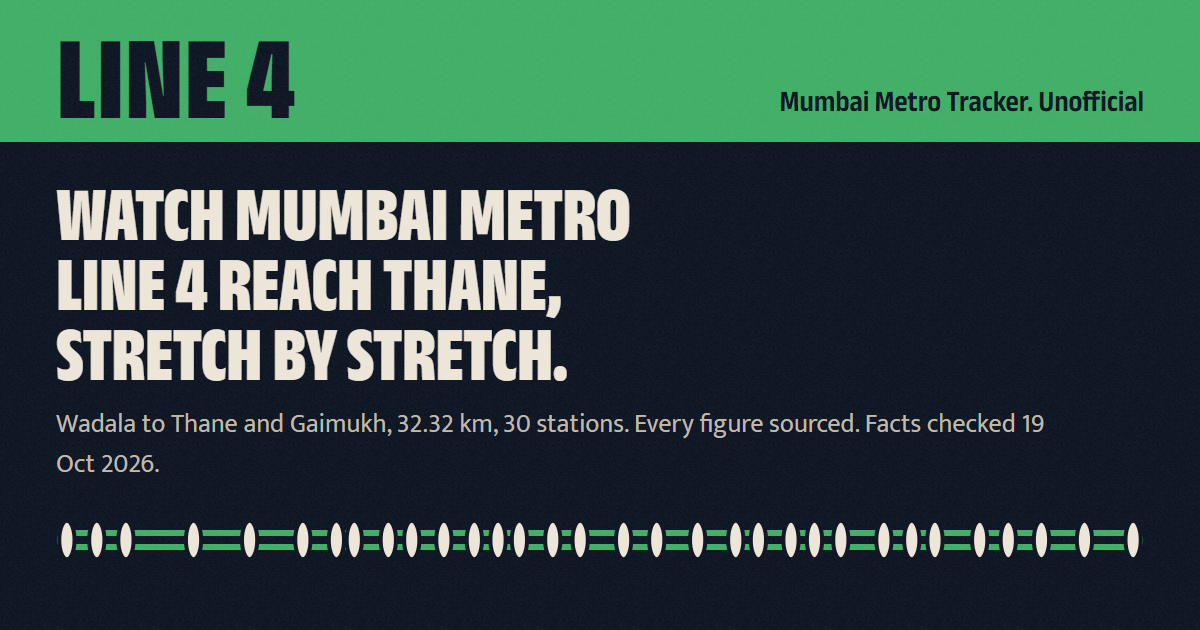
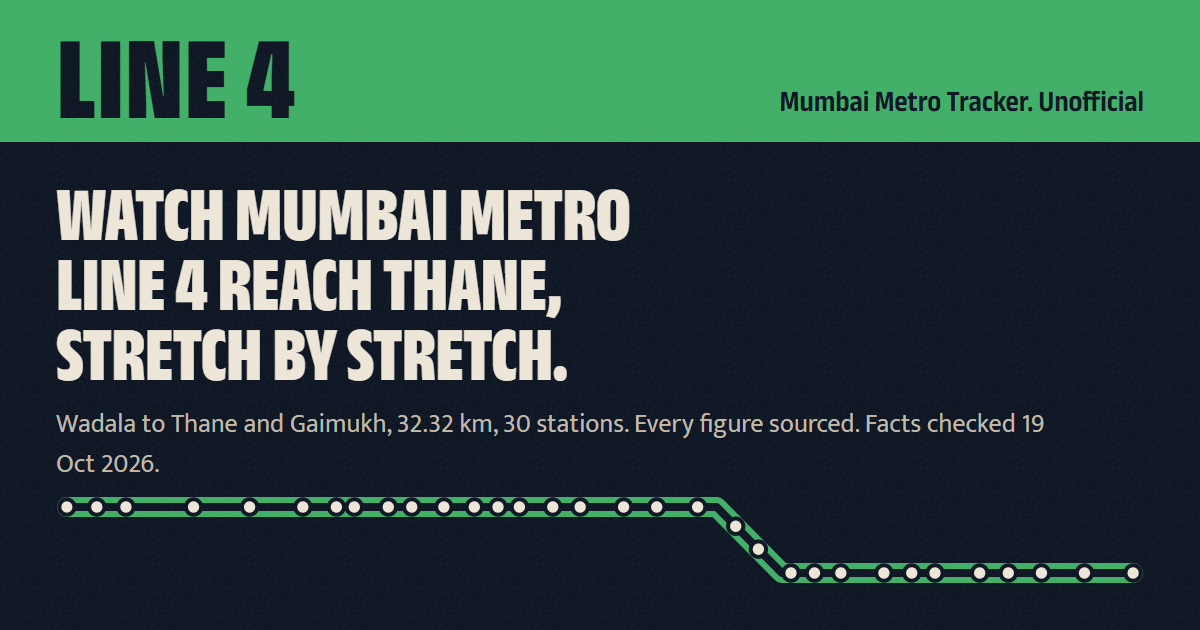
Line 4 route: a Teen Haath Naka bend and 45-degree station names
The ride strip printed 32 station names flat, and they ran into each
other. Two changes, after Line 12's strip:
- One 45-degree bend at Teen Haath Naka, where the line leaves LBS Marg
  for the Eastern Expressway into Thane (project report, May 2016,
  3.0.1): alignment bend_along_m, so the front strip, hub card and share
  card bend too.
- A dense line (more than 24 stations) sets its names at 45 degrees,
  above and below in turn, in a taller track; names on the bend rise
  away from the line. Lines 12 and 5 are unchanged.

Also corrects Line 4's route note: it runs beside the Eastern Expressway
only to Amar Mahal Junction, then on LBS Marg to Teen Haath Naka.

Changed region(s): [[0.0308, 0.7841, 0.9558, 0.9349]]

diff --git a/scripts/build-alignment-line4.py b/scripts/build-alignment-line4.py
@@ -30,6 +30,9 @@ K = '{http://www.opengis.net/kml/2.2}'
 STATIONS = 'src/data/lines/line-4/stations.json'
 OUT = 'src/data/lines/line-4/alignment-mmrda-2025.geojson'
 END_OF_LINE_4_M = 450  # Line 4A starts 450 m past Kasarvadavali station (project reports, 2016 and 2017)
+# The schematic's one 45-degree bend (src/lib/route.ts): at Teen Haath Naka, where the line leaves Lal Bahadur
+# Shastri Marg for the Eastern Expressway into Thane (project report, May 2016, 3.0.1). It starts midway between
+# Mulund Naka and Teen Haath Naka, as Line 12's bend starts where that line leaves its road.
 
 # A flat projection, good to well under a metre across this 35 km line.
 LAT0 = 19.15
@@ -192,13 +195,14 @@ feature = lambda props, coords: {'type': 'Feature', 'properties': props, 'geomet
 geo = {
     'type': 'FeatureCollection',
     'properties': {
-        'note': f'Derived from MMRDA\'s alignment file for Line 4 ({KML_URL}), which gives the corridor from Bhakti Park to Gaimukh as one polygon; the centre line runs midway between its two sides from Bhakti Park station, along the Eastern Express Highway, LBS Marg and Ghodbunder Road (verified). Line 4 ends {END_OF_LINE_4_M} m past Kasarvadavali, where Line 4A starts (project reports, 2016 and 2017). Simplified to about 1 m by scripts/build-alignment-line4.py.',
+        'note': f'Derived from MMRDA\'s alignment file for Line 4 ({KML_URL}), which gives the corridor from Bhakti Park to Gaimukh as one polygon; the centre line runs midway between its two sides from Bhakti Park station: beside the Eastern Expressway to Amar Mahal Junction, along Lal Bahadur Shastri Marg to Teen Haath Naka in Thane, then on the Eastern Expressway and Ghodbunder Road (verified). Line 4 ends {END_OF_LINE_4_M} m past Kasarvadavali, where Line 4A starts (project reports, 2016 and 2017). Simplified to about 1 m by scripts/build-alignment-line4.py.',
         'source_url': PAGE_URL,
         'status': 'verified',
         'last_verified': CHECKED,
         'length_m': round(length),
         'line_4_m': round(split),
         'line_4a_m': round(length - split),
+        'bend_along_m': round((along_of['mulund-naka'] + along_of['teen-haath-naka']) / 2),
     },
     'features': [
         feature({'name': 'Line 4 centre line', 'part': 'current', 'note': 'Bhakti Park (Wadala) to the end of line past Kasarvadavali, from MMRDA\'s 2025 file (verified).'}, cut(0, split)),

diff --git a/DESIGN.md b/DESIGN.md
@@ -325,7 +325,7 @@ The system has no cards. Two container types exist.
 Every figure carries one. A 0.95em drawn mark, then an uppercase label word, then a hairline divider and the source outlet as a link. Verified and reported marks are ink; unverified and conflicting marks turn Orange Ink. The word is always present (visibly or for screen readers), so the grade never relies on colour.
 
 ### Route Line (signature)
-The schematic Line 12, shared by the front-page strip and the route ride. An orange casing (14px on the strip, 22px in the ride) with a paper core (5px and 9px), round joins, one 45-degree bend where the alignment leaves Kalyan-Shilphata Road. Station dots are ink with a paper ring on the strip. In the ride, dots are paper with a 3px ink ring; passed stations fill ink; the current station fills orange and scales to 1.5. On phones the line runs down the left of a vertical station list as a hollow capsule, with an ink dot per station.
+The schematic Line 12, shared by the front-page strip and the route ride. An orange casing (14px on the strip, 22px in the ride) with a paper core (5px and 9px), round joins, one 45-degree bend where the alignment leaves Kalyan-Shilphata Road. Station dots are ink with a paper ring on the strip. In the ride, dots are paper with a 3px ink ring; passed stations fill ink; the current station fills orange and scales to 1.5. On phones the line runs down the left of a vertical station list as a hollow capsule, with an ink dot per station. Each line takes one 45-degree bend at a real turn: Line 12 where it leaves Kalyan-Shilphata Road, Line 4 at Teen Haath Naka, where it leaves LBS Marg for the Eastern Expressway into Thane. A dense line (more than 24 stations, Line 4) sets its station names in the ride at 45 degrees, rising above and falling below in turn, and the names on its bend rise away from the line, so close stations never collide.
 
 ### Progress Bars
 - **Works bar:** a 1rem track in Folded Newsprint with an inset 1px rule, filled from the left in Orange Rail to the reported percentage. It grows from zero on first view.
